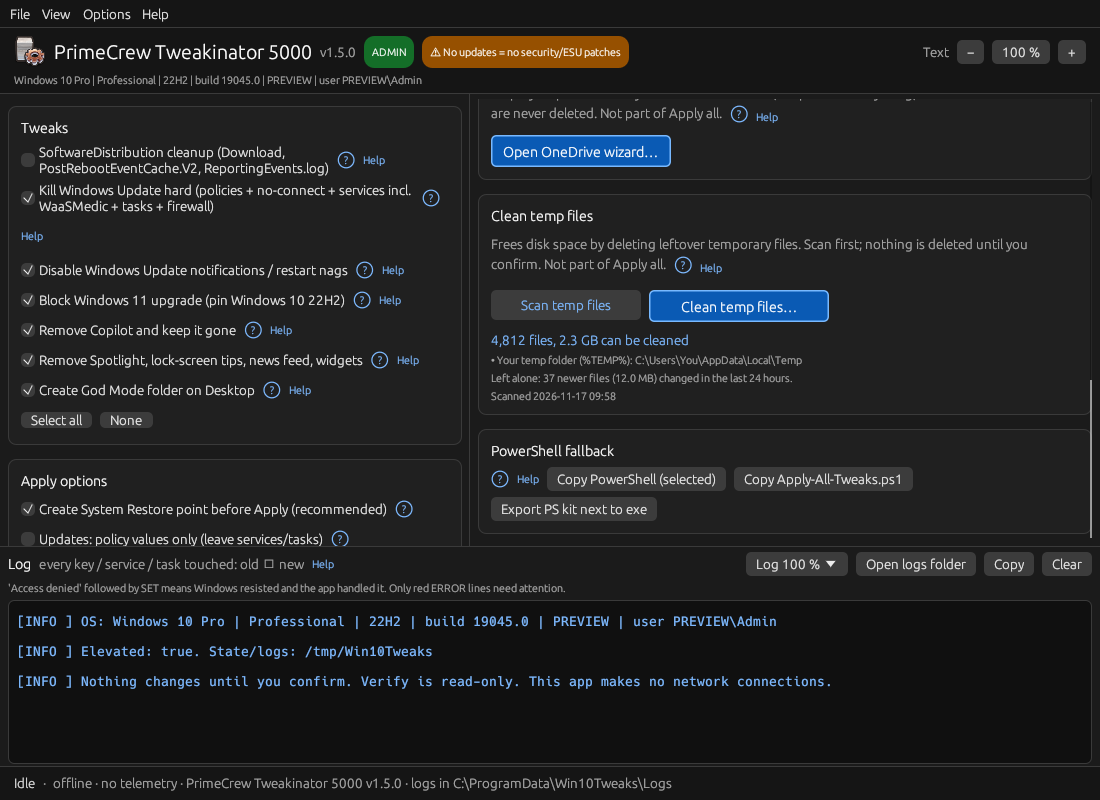
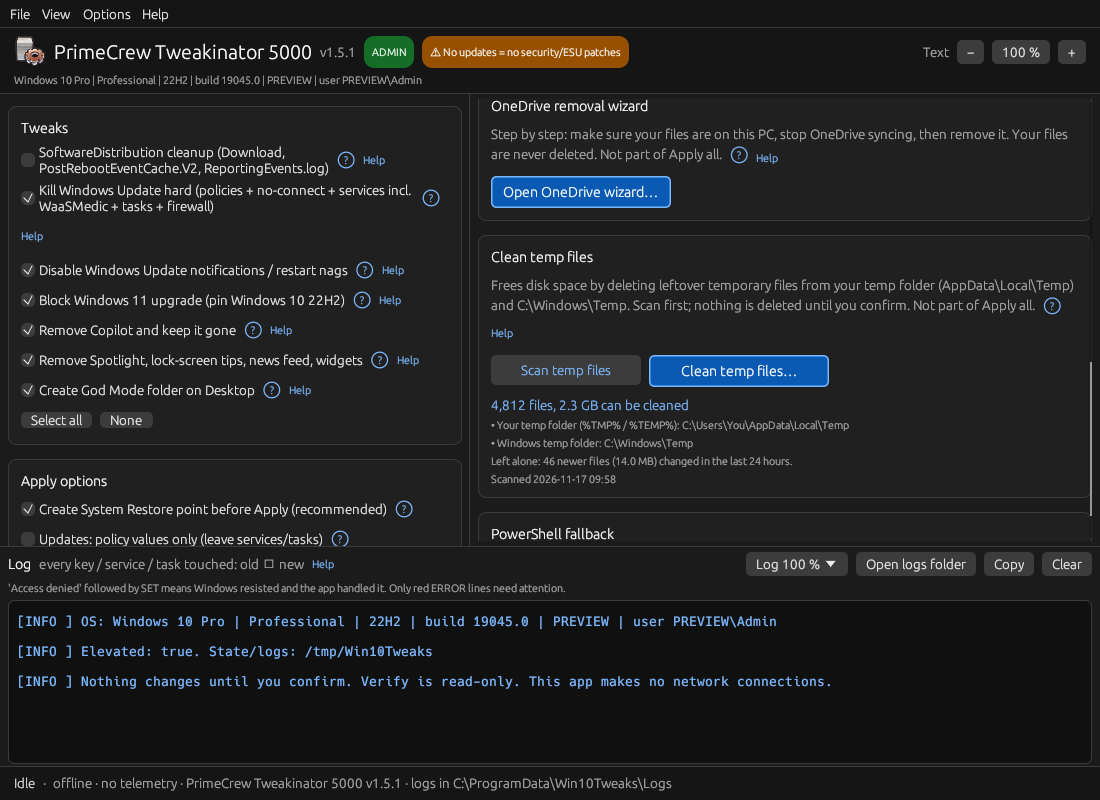
Release v1.5.1: Clean temp files covers %TMP%/%TEMP% (standard location only) and C:\Windows\Temp by default

Changed region(s): [[0.4327, 0.125, 0.9891, 0.6875]]

diff --git a/app/src/tempui.rs b/app/src/tempui.rs
@@ -14,7 +14,7 @@ pub enum TcAct {
     CancelSchedule,
 }
 
-pub const TIP: &str = "Deletes leftover temporary files. Scan first to see how much space you would get back. Files changed in the last 24 hours and files in use are left alone. Deleted temp files cannot be restored. Not part of Apply all. Click for details.";
+pub const TIP: &str = "Deletes leftover temporary files from your temp folder (AppData\\Local\\Temp) and C:\\Windows\\Temp. Scan first to see how much space you would get back. Files changed in the last 24 hours and files in use are left alone. Deleted temp files cannot be restored. Not part of Apply all. Click for details.";
 
 impl App {
     pub(super) fn tc_opts_now(&self) -> CleanOpts {
@@ -69,7 +69,7 @@ impl App {
         let o = self.tc_opts_now();
         theme::card(ui, "Clean temp files", |ui| {
             ui.horizontal_wrapped(|ui| {
-                ui.add(egui::Label::new(RichText::new("Frees disk space by deleting leftover temporary files. Scan first; nothing is deleted until you confirm. Not part of Apply all.").color(k.muted)).wrap());
+                ui.add(egui::Label::new(RichText::new("Frees disk space by deleting leftover temporary files from your temp folder (AppData\\Local\\Temp) and C:\\Windows\\Temp. Scan first; nothing is deleted until you confirm. Not part of Apply all.").color(k.muted)).wrap());
                 help::mark(ui, TIP, help::ID_TEMPCLEAN, expert);
                 help::link(ui, help::ID_TEMPCLEAN);
             });
@@ -79,7 +79,7 @@ impl App {
             if expert {
                 ui.add_space(2.0);
                 ui.horizontal_wrapped(|ui| {
-                    ui.add_enabled(!busy, egui::Checkbox::new(&mut self.tc_opts.include_windows, "Also C:\\Windows\\Temp"));
+                    ui.add_enabled(!busy, egui::Checkbox::new(&mut self.tc_opts.include_windows, "Include C:\\Windows\\Temp (default)"));
                     ui.add_enabled(!busy, egui::Checkbox::new(&mut self.tc_opts.include_other_users, "Also other users' temp folders"));
                 });
                 ui.horizontal_wrapped(|ui| {
@@ -230,6 +230,9 @@ impl App {
                                 let line = format!("• {} — {}", r.root.label, r.root.shown());
                                 ui.add(egui::Label::new(if expert { RichText::new(line).monospace() } else { RichText::new(line) }).wrap());
                             }
+                            for (label, why) in &s.refused {
+                                ui.add(egui::Label::new(RichText::new(format!("Not used: {label} — {why}")).color(k.warn)).wrap());
+                            }
                             ui.add_space(4.0);
                             ui.add(egui::Label::new(RichText::new(format!("• Files changed in the last {} are left alone.", age_label(s.opts.min_age_hours))).color(k.muted)).wrap());
                             ui.add(egui::Label::new(RichText::new("• Files in use by other programs are skipped. You can finish those at the next restart.").color(k.muted)).wrap());
@@ -320,15 +323,22 @@ pub fn shot_samples(after_clean: bool) -> (Option<Report>, Option<Report>) {
     use std::path::PathBuf;
     use tc::{Locked, Root, RootKind, RootResult, Stats};
     let root = PathBuf::from(r"C:\Users\You\AppData\Local\Temp");
-    let r = Root { kind: RootKind::CurrentUser, label: "Your temp folder (%TEMP%)".into(), path: root.clone() };
+    let r = Root { kind: RootKind::CurrentUser, label: "Your temp folder (%TMP% / %TEMP%)".into(), path: root.clone() };
+    let w = Root { kind: RootKind::Windows, label: "Windows temp folder".into(), path: PathBuf::from(r"C:\Windows\Temp") };
     let scan = Report {
         cleaned: false,
         opts: CleanOpts::default(),
         when: "2026-11-17 09:58".into(),
-        roots: vec![RootResult {
-            root: r.clone(),
-            stats: Stats { eligible_files: 4812, eligible_bytes: 2_469_606_195, recent_files: 37, recent_bytes: 12_582_912, ..Default::default() },
-        }],
+        roots: vec![
+            RootResult {
+                root: r.clone(),
+                stats: Stats { eligible_files: 4210, eligible_bytes: 2_169_606_195, recent_files: 37, recent_bytes: 12_582_912, ..Default::default() },
+            },
+            RootResult {
+                root: w.clone(),
+                stats: Stats { eligible_files: 602, eligible_bytes: 300_000_000, recent_files: 9, recent_bytes: 2_097_152, ..Default::default() },
+            },
+        ],
         refused: vec![],
         preview_only: false,
     };
@@ -343,10 +353,16 @@ pub fn shot_samples(after_clean: bool) -> (Option<Report>, Option<Report>) {
     let locked_bytes = locked.iter().map(|l| l.bytes).sum();
     let done = Report {
         cleaned: true,
-        roots: vec![RootResult {
-            root: r,
-            stats: Stats { eligible_files: 4812, deleted_files: 4808, deleted_bytes: 2_439_606_195, deleted_dirs: 211, locked, locked_bytes, ..Default::default() },
-        }],
+        roots: vec![
+            RootResult {
+                root: r,
+                stats: Stats { eligible_files: 4210, deleted_files: 4206, deleted_bytes: 2_139_606_195, deleted_dirs: 198, locked, locked_bytes, ..Default::default() },
+            },
+            RootResult {
+                root: w,
+                stats: Stats { eligible_files: 602, deleted_files: 602, deleted_bytes: 300_000_000, deleted_dirs: 13, ..Default::default() },
+            },
+        ],
         ..scan
     };
     (None, Some(done))

diff --git a/app/src/tempclean.rs b/app/src/tempclean.rs
@@ -61,12 +61,13 @@ pub struct CleanOpts {
 
 impl Default for CleanOpts {
     fn default() -> Self {
-        CleanOpts { include_windows: false, include_other_users: false, min_age_hours: DEFAULT_MIN_AGE_HOURS }
+        CleanOpts { include_windows: true, include_other_users: false, min_age_hours: DEFAULT_MIN_AGE_HOURS }
     }
 }
 
 impl CleanOpts {
-    /// Beginner mode always uses the safe defaults (your own %TEMP%, 24 hours).
+    /// Beginner mode always uses the defaults: your own %TMP% / %TEMP% (standard location only) plus
+    /// C:\Windows\Temp, 24 hours. Other accounts' temp folders are Expert-only.
     pub fn effective(self, expert: bool) -> Self {
         if expert {
             CleanOpts { min_age_hours: self.min_age_hours.max(1), ..self }
@@ -450,11 +451,21 @@ pub fn current_user_temp() -> Option<PathBuf> {
     canon(&std::env::temp_dir())
 }
 
+/// The user's temp folder is cleaned only when it is the standard `<profile>\AppData\Local\Temp`.
+/// Both paths should already be canonical.
+pub fn is_standard_user_temp(candidate: &Path, profile: &Path) -> bool {
+    let std_temp = profile.join("AppData").join("Local").join("Temp");
+    let std_temp = canon(&std_temp).unwrap_or(std_temp);
+    norm_key(&candidate.to_string_lossy()) == norm_key(&std_temp.to_string_lossy())
+}
+
+pub const CUSTOM_TEMP_NOTE: &str = "points to a custom folder, so it is left alone. Only the standard AppData\\Local\\Temp is cleaned.";
+
 /// The roots for these options plus any folder refused by `root_ok`.
 pub fn roots(o: CleanOpts) -> (Vec<Root>, Vec<(String, String)>) {
     let mut out: Vec<Root> = vec![];
     let mut refused = vec![];
-    let mut push = |kind: RootKind, label: String, p: PathBuf, out: &mut Vec<Root>| {
+    let push = |kind: RootKind, label: String, p: PathBuf, out: &mut Vec<Root>, refused: &mut Vec<(String, String)>| {
         let Some(c) = canon(&p) else { return };
         if out.iter().any(|r| norm_key(&r.path.to_string_lossy()) == norm_key(&c.to_string_lossy())) {
             return;
@@ -464,16 +475,37 @@ pub fn roots(o: CleanOpts) -> (Vec<Root>, Vec<(String, String)>) {
             Err(e) => refused.push((format!("{label} ({})", display_path(&c)), e)),
         }
     };
-    push(RootKind::CurrentUser, "Your temp folder (%TEMP%)".into(), std::env::temp_dir(), &mut out);
+    #[cfg(windows)]
+    {
+        // %TMP% and %TEMP% (Windows uses TMP first). Only the standard AppData\Local\Temp is cleaned.
+        let profile = std::env::var_os("USERPROFILE").map(PathBuf::from).and_then(|p| canon(&p));
+        for var in ["TMP", "TEMP"] {
+            let Some(raw) = std::env::var_os(var).map(PathBuf::from) else { continue };
+            let Some(c) = canon(&raw) else { continue };
+            if out.iter().any(|r| norm_key(&r.path.to_string_lossy()) == norm_key(&c.to_string_lossy())) {
+                continue;
+            }
+            if profile.as_deref().is_some_and(|p| is_standard_user_temp(&c, p)) {
+                push(RootKind::CurrentUser, "Your temp folder (%TMP% / %TEMP%)".into(), raw, &mut out, &mut refused);
+            } else {
+                let label = format!("Your %{var}% ({})", display_path(&c));
+                if !refused.iter().any(|(l, _)| *l == label) {
+                    refused.push((label, CUSTOM_TEMP_NOTE.into()));
+                }
+            }
+        }
+    }
+    #[cfg(not(windows))]
+    push(RootKind::CurrentUser, "Your temp folder (%TMP% / %TEMP%)".into(), std::env::temp_dir(), &mut out, &mut refused);
     #[cfg(windows)]
     {
         if o.include_windows {
             let win = std::env::var("SystemRoot").unwrap_or_else(|_| r"C:\Windows".into());
-            push(RootKind::Windows, "Windows temp folder".into(), PathBuf::from(win).join("Temp"), &mut out);
+            push(RootKind::Windows, "Windows temp folder".into(), PathBuf::from(win).join("Temp"), &mut out, &mut refused);
         }
         if o.include_other_users {
             for (name, p) in crate::sys::profile_temp_dirs() {
-                push(RootKind::OtherUser, format!("Temp folder of {name}"), p, &mut out);
+                push(RootKind::OtherUser, format!("Temp folder of {name}"), p, &mut out, &mut refused);
             }
         }
     }
@@ -910,7 +942,13 @@ mod tests {
         assert_eq!(fmt_n(4812), "4,812");
         assert_eq!(age_label(24), "24 hours");
         assert_eq!(age_label(168), "7 days");
-        assert_eq!(CleanOpts { include_windows: true, include_other_users: true, min_age_hours: 1 }.effective(false), CleanOpts::default());
+        assert_eq!(CleanOpts { include_windows: false, include_other_users: true, min_age_hours: 1 }.effective(false), CleanOpts::default());
+        let d = CleanOpts::default();
+        assert!(d.include_windows && !d.include_other_users && d.min_age_hours == 24, "Windows\\Temp is cleaned by default; other accounts are Expert-only");
+        assert!(is_standard_user_temp(Path::new("/nonexistent/Users/A/AppData/Local/Temp"), Path::new("/nonexistent/Users/A")));
+        assert!(is_standard_user_temp(Path::new("/nonexistent/Users/A/appdata/local/TEMP"), Path::new("/nonexistent/Users/A")));
+        assert!(!is_standard_user_temp(Path::new("/nonexistent/Scratch/Temp"), Path::new("/nonexistent/Users/A")));
+        assert!(!is_standard_user_temp(Path::new("/nonexistent/Users/B/AppData/Local/Temp"), Path::new("/nonexistent/Users/A")));
     }
 
     #[test]

diff --git a/app/src/help.rs b/app/src/help.rs
@@ -647,14 +647,15 @@ How it works
 5. After the restart, the card shows how many of those files were cleared and how much space came back. Click Dismiss when you have read it.
 
 What is cleaned
-• Beginner mode: only your own temp folder (%TEMP%, usually C:\\Users\\<you>\\AppData\\Local\\Temp).
-• Expert mode can add C:\\Windows\\Temp and the temp folders of other user accounts on this PC.
+• By default (Beginner and Expert mode): your own temp folder (%TMP% / %TEMP%, normally C:\\Users\\<you>\\AppData\\Local\\Temp) and the Windows temp folder, C:\\Windows\\Temp.
+• Your %TMP% / %TEMP% is cleaned only when it is the standard AppData\\Local\\Temp folder. If it points to a custom folder (for example D:\\Scratch or C:\\Temp), it is left alone and the card shows a “Not used” note.
+• Expert mode can also add the temp folders of other user accounts on this PC, or leave out C:\\Windows\\Temp.
 
 Safety rules
 • Deleted temp files cannot be restored. They do not go to the Recycle Bin, and there is no Revert. The confirm window says so and needs a tick.
 • Files and folders changed in the last 24 hours are left alone, so a half-finished install or update is not disturbed. Expert mode can change this to 1 hour, 3 days, or 7 days.
 • Only files inside the temp folders are deleted. Shortcuts, symbolic links and junctions are never followed and never deleted, so nothing outside the temp folder can be reached.
-• A folder is only used if its name is Temp (or Tmp) and it is not the top of a drive. If your TEMP setting points somewhere unusual, such as C:\\ or C:\\Temp, the card says “Not used” and leaves it alone.
+• A folder is only used if its name is Temp (or Tmp) and it is not the top of a drive, and your own temp folder only if it is the standard AppData\\Local\\Temp. Anything else gets a “Not used” note and is left alone.
 • The folder this app is running from is never touched (for example, if you opened the exe straight from a zip file).
 • Empty folders left behind are removed, except recently changed ones.
 • The scan is only a preview. Clean looks at the folders again and applies the same rules at the moment it runs.

diff --git a/README.md b/README.md
@@ -6,12 +6,12 @@ PrimeCrew Tweakinator 5000 is a small Windows 10 utility from **PrimeCrew Softwa
 
 ## Download
 
-Get the latest files from the **[Releases page](https://github.com/primecrew/primecrew-tweakinator-5000/releases/latest)** (no GitHub account needed). The current release is **v1.5.0**.
+Get the latest files from the **[Releases page](https://github.com/primecrew/primecrew-tweakinator-5000/releases/latest)** (no GitHub account needed). The current release is **v1.5.1**.
 
-- **Installer version (recommended)** — [PrimeCrewTweakinator5000-v1.5.0-x64-Setup.exe](https://github.com/primecrew/primecrew-tweakinator-5000/releases/download/v1.5.0/PrimeCrewTweakinator5000-v1.5.0-x64-Setup.exe)  
+- **Installer version (recommended)** — [PrimeCrewTweakinator5000-v1.5.1-x64-Setup.exe](https://github.com/primecrew/primecrew-tweakinator-5000/releases/download/v1.5.1/PrimeCrewTweakinator5000-v1.5.1-x64-Setup.exe)  
   A normal setup. It adds a Start menu entry under PrimeCrew Software and appears in Add/Remove Programs.
 
-- **Portable version (no install) — [PrimeCrewTweakinator5000-v1.5.0.zip](https://github.com/primecrew/primecrew-tweakinator-5000/releases/download/v1.5.0/PrimeCrewTweakinator5000-v1.5.0.zip)**  
+- **Portable version (no install) — [PrimeCrewTweakinator5000-v1.5.1.zip](https://github.com/primecrew/primecrew-tweakinator-5000/releases/download/v1.5.1/PrimeCrewTweakinator5000-v1.5.1.zip)**  
   Unzip anywhere, run `PrimeCrewTweakinator5000.exe`. Nothing gets installed, and you can run it from a USB stick.
 
 **Requirements:** Windows 10 64-bit (aimed at Pro 22H2). The app asks for administrator permission (a UAC prompt) when you run it. The GUI needs a GPU/driver with OpenGL 2+ (normal on real hardware; may fail in a bare VM or some RDP sessions). No extra runtime. The app contains no network code and sends no telemetry.
@@ -100,14 +100,14 @@ A step-by-step wizard, never part of Apply all. **Your files are never deleted**
 
 Its own card on the main window, never part of Apply all, and there is no Revert for it.
 
-1. **Scan temp files** (read-only) counts what could be cleaned, for example “4,812 files, 2.3 GB can be cleaned”. Beginner mode looks only at your own `%TEMP%` folder. Expert mode can add `C:\Windows\Temp` and other users' `AppData\Local\Temp` folders, and change the age limit.
+1. **Scan temp files** (read-only) counts what could be cleaned, for example “4,812 files, 2.3 GB can be cleaned”. By default it looks at the two usual places: your own temp folder (`%TMP%` / `%TEMP%`, normally `AppData\Local\Temp`) and `C:\Windows\Temp`. Your `%TMP%` / `%TEMP%` is cleaned only when it is the standard `AppData\Local\Temp`; if it points to a custom folder, it is left alone and the card shows a note. Expert mode can also add other user accounts' `AppData\Local\Temp` folders, leave out `C:\Windows\Temp`, and change the age limit.
 2. **Clean temp files…** opens a confirm window that says plainly that **deleted temp files cannot be restored** (no Recycle Bin, no undo) and needs a tick. Then the app deletes what it can.
 3. Files that another program has open (mouse or keyboard software, Teams, a browser, a running installer) are skipped quietly and counted, not reported as errors. In Beginner mode their names go to the log file only; Expert mode also shows them on screen with the Windows reason.
 4. Optional **Finish cleanup at next restart…** hands just those leftover files to Windows' own delete-at-restart list (`MoveFileExW` with `MOVEFILE_DELAY_UNTIL_REBOOT`, stored in `PendingFileRenameOperations`). Windows deletes them early in startup, before services and programs start. What was scheduled is recorded in `C:\ProgramData\Win10Tweaks\tempclean-pending.json`, so after the restart the card shows how many files were cleared and how much space came back. **Cancel scheduled cleanup…** removes only this app's entries from that list before you restart.
 
 ![Confirm window: deleted temp files cannot be restored](docs/screenshots/08-clean-temp-confirm.png)
 
-Safety rules: files and folders changed in the last 24 hours are left alone (Expert: 1 hour, 3 days, or 7 days). Only paths strictly inside the temp folders are touched; symbolic links, junctions and other reparse points are never followed or deleted. A folder is used only if it is named `Temp` / `Tmp` and is not the top of a drive, so an unusual `TEMP` setting such as `C:\` is refused. The folder the app is running from is never touched. Empty folders left behind are removed. The scan is only a preview: Clean checks everything again as it runs. Until you restart after scheduling, the pre-flight check reports a pending reboot.
+Safety rules: files and folders changed in the last 24 hours are left alone (Expert: 1 hour, 3 days, or 7 days). Only paths strictly inside the temp folders are touched; symbolic links, junctions and other reparse points are never followed or deleted. A folder is used only if it is named `Temp` / `Tmp` and is not the top of a drive, and your own temp folder only if it is the standard `AppData\Local\Temp`, so a custom `TEMP` setting such as `C:\` or `D:\Scratch` is left alone. The folder the app is running from is never touched. Empty folders left behind are removed. The scan is only a preview: Clean checks everything again as it runs. Until you restart after scheduling, the pre-flight check reports a pending reboot.
 
 ![After cleaning: files in use can be finished at the next restart](docs/screenshots/09-clean-temp-restart.png)
 
@@ -245,8 +245,8 @@ Output: `app/target/x86_64-pc-windows-gnullvm/release/PrimeCrewTweakinator5000.e
 Release artifacts:
 
 ```
-PrimeCrewTweakinator5000-v1.5.0-x64-Setup.exe
-PrimeCrewTweakinator5000-v1.5.0.zip
+PrimeCrewTweakinator5000-v1.5.1-x64-Setup.exe
+PrimeCrewTweakinator5000-v1.5.1.zip
   PrimeCrewTweakinator5000/PrimeCrewTweakinator5000.exe
   PrimeCrewTweakinator5000/README.md
 ```

diff --git a/CHANGELOG.md b/CHANGELOG.md
@@ -2,6 +2,11 @@
 
 User-facing history for PrimeCrew Tweakinator 5000.
 
+## 1.5.1
+
+- Clean temp files now covers both usual places by default, in Beginner and Expert mode: your own temp folder (`%TMP%` / `%TEMP%`, normally `AppData\Local\Temp`) and `C:\Windows\Temp`. Other user accounts' temp folders stay Expert-only, and Expert mode can leave out `C:\Windows\Temp`.
+- Your `%TMP%` / `%TEMP%` is cleaned only when it resolves to the standard `<profile>\AppData\Local\Temp`. If it points to a custom folder, it is left alone and the card and confirm window show a “Not used” note.
+
 ## 1.5.0
 
 - New **Clean temp files** card (its own card, never part of Apply all, no Revert). **Scan temp files** is read-only and shows how many files and how much space can be cleaned. Beginner mode cleans only your own `%TEMP%`. Expert mode can add `C:\Windows\Temp` and other users' temp folders, and change the age limit (1 hour, 24 hours, 3 days, 7 days).
